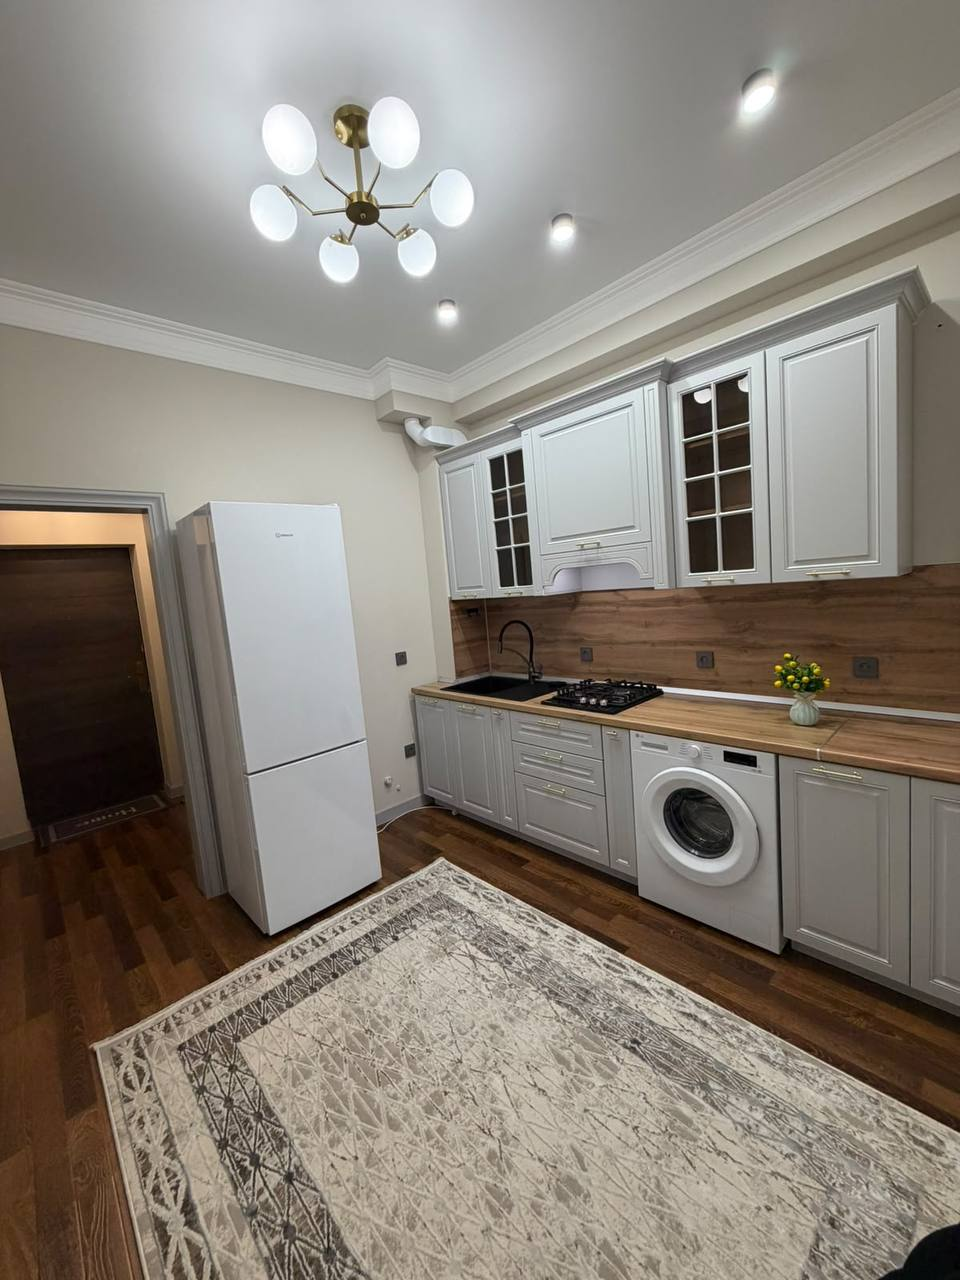
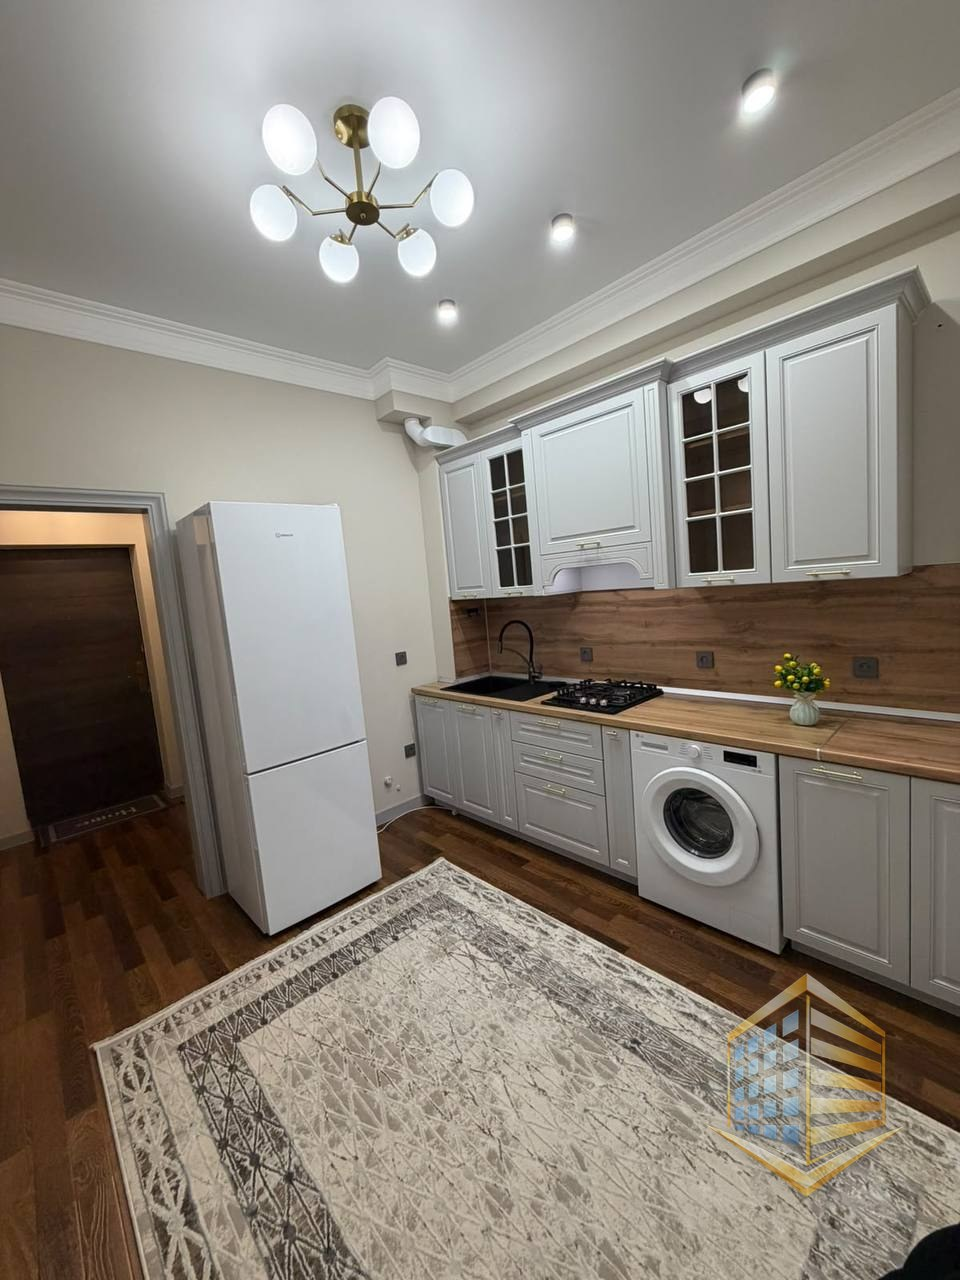
Clean listing 13 description, rebake watermark with crop-safe margin, remove unused details modal
Claude-Session: https://claude.ai/code/session_019tdYqEuQ2KqC7JcWJotPjW

Changed region(s): [[0.75, 0.75, 0.9375, 0.9375]]

diff --git a/index.html b/index.html
@@ -896,14 +896,6 @@ footer{background:#06172b}
   <span class="photo-counter" id="photo-counter"></span>
 </div>
 
-<div class="modal" id="details-modal" role="dialog" aria-modal="true" aria-labelledby="details-title">
-  <div class="dialog details-dialog">
-    <button class="close" type="button" data-close-details aria-label="Закрыть">&times;</button>
-    <h3 id="details-title">Информация об объекте</h3>
-    <div id="details-content"></div>
-    <button class="btn acc" type="button" id="details-request" style="width:100%;margin-top:14px">Оставить заявку</button>
-  </div>
-</div>
 
 <script>
 // Один номер для звонков, WhatsApp и Telegram
@@ -1004,22 +996,7 @@ $("cards").addEventListener("click",e=>{
   }
   const photo=e.target.closest("[data-photo]");
   if(photo){const card=photo.closest(".card");const id=card.querySelector("[data-gallery-next]")?.dataset.galleryNext||card.querySelector("[data-gallery-prev]")?.dataset.galleryPrev;const item=L.find(x=>String(x.id)===String(id))||L.find(x=>(Array.isArray(x.images)&&x.images.includes(photo.dataset.photo))||x.image===photo.dataset.photo);const photos=item?(Array.isArray(item.images)&&item.images.length?item.images:(item.image?[item.image]:[])):[photo.dataset.photo];openPhoto(photos,Number(photo.dataset.photoIndex||0),photo.dataset.photoAlt||"Фото объекта");return;}
-  const b=e.target.closest("[data-details]");
-  if(b)showDetails(b.dataset.details);
 });
-let activeDetails=null;
-function showDetails(id){
-  const item=L.find(x=>String(x.id)===String(id));if(!item)return;
-  activeDetails=item;
-  const city=cityName(item)||"Город не указан";
-  const per=item.deal==="arenda"?"в месяц":item.deal==="posutochno"?"в сутки":"";
-  const rows=[["Город",city],["Адрес / район",item.location||"Не указан"],["Тип сделки",DEALLBL[item.deal]||"Не указан"],["Площадь", (item.area??"—")+(item.category==="uchastki"?" сот.":" м²")],["Комнаты",item.rooms||"—"],["Этаж",item.floor?(item.floor+(item.floors?" из "+item.floors:"")):(item.extra||"—")]];
-  const labels={kitchenArea:"Площадь кухни",livingArea:"Жилая площадь",ceilingHeight:"Высота потолков",heating:"Отопление",bathroom:"Санузел",windows:"Окна",furniture:"Мебель",appliances:"Техника",condition:"Состояние",documents:"Документы",payment:"Ипотека / рассрочка",bargaining:"Торг",parking:"Парковка",utilities:"Коммуникации"};
-  Object.entries(item.details||{}).forEach(([key,value])=>{if(value)rows.push([labels[key]||key,value])});
-  $("details-title").textContent=item.title;
-  $("details-content").innerHTML='<p class="price">'+fmt(item.price)+' ₽ '+(per?'<small>'+per+'</small>':'')+'</p><dl class="detail-list">'+rows.map(([k,v])=>'<div><dt>'+esc(k)+'</dt><dd>'+esc(v)+'</dd></div>').join("")+'</dl>'+(item.description?'<p class="detail-desc">'+esc(item.description)+'</p>':'');
-  $("details-modal").classList.add("open");
-}
 let fullPhotos=[],fullPhotoIndex=0,fullPhotoAlt="Фото объекта",touchStartX=0;
 function showFullPhoto(){
   if(!fullPhotos.length)return;
@@ -1039,10 +1016,7 @@ document.querySelector("[data-full-next]").addEventListener("click",()=>moveFull
 $("photo-modal").addEventListener("click",e=>{if(e.target.id==="photo-modal")closePhoto();});
 $("photo-modal").addEventListener("touchstart",e=>{touchStartX=e.changedTouches[0].screenX;},{passive:true});
 $("photo-modal").addEventListener("touchend",e=>{const dx=e.changedTouches[0].screenX-touchStartX;if(Math.abs(dx)>45)moveFullPhoto(dx<0?1:-1);},{passive:true});
-document.addEventListener("keydown",e=>{if($("photo-modal").classList.contains("open")){if(e.key==="ArrowRight")moveFullPhoto(1);if(e.key==="ArrowLeft")moveFullPhoto(-1);}if(e.key==="Escape"){closePhoto();$("details-modal").classList.remove("open");}});
-document.querySelector("[data-close-details]").addEventListener("click",()=>$("details-modal").classList.remove("open"));
-$("details-modal").addEventListener("click",e=>{if(e.target.id==="details-modal")$("details-modal").classList.remove("open")});
-$("details-request").addEventListener("click",()=>{if(activeDetails){$("details-modal").classList.remove("open");openModal("Заявка: "+activeDetails.title+" — "+cityName(activeDetails))}});
+document.addEventListener("keydown",e=>{if($("photo-modal").classList.contains("open")){if(e.key==="ArrowRight")moveFullPhoto(1);if(e.key==="ArrowLeft")moveFullPhoto(-1);}if(e.key==="Escape")closePhoto();});
 ["rooms","rooms-advanced","land-type","land-type-advanced","price-min","price-max","area-min","area-max","floor","floors","sort"].forEach(id=>$(id).addEventListener("input",render));
 $("search").addEventListener("submit",e=>{e.preventDefault();render();$("catalog").scrollIntoView({behavior:"smooth"})});
 const mobileMenu=$("mobile-menu"),menuToggle=$("mobile-menu-toggle");

diff --git a/tools/watermark.py b/tools/watermark.py
@@ -15,7 +15,8 @@ from PIL import Image, ImageFilter, ImageOps
 LOGO = Path(__file__).resolve().parent.parent / "assets" / "city-logo-mark.png"
 WIDTH_SHARE = 0.22   # ширина знака относительно ширины фото
 OPACITY = 0.50       # прозрачность знака (1 = непрозрачный)
-MARGIN_SHARE = 0.035  # отступ от правого и нижнего края относительно ширины фото
+MARGIN_SHARE = 0.05   # отступ от правого края относительно ширины фото
+BOTTOM_SHARE = 0.085  # отступ снизу: запас, чтобы знак не обрезался при показе фото в формате 4:5
 
 
 def add_watermark(src: Path, dst: Path) -> None:
@@ -36,7 +37,7 @@ def add_watermark(src: Path, dst: Path) -> None:
     logo.putalpha(alpha.point(lambda v: int(v * OPACITY)))
 
     margin = int(w * MARGIN_SHARE)
-    pos = (w - lw - margin, h - lh - margin)
+    pos = (w - lw - margin, h - lh - int(w * BOTTOM_SHARE))
 
     canvas = photo.convert("RGBA")
     canvas.alpha_composite(shadow, (pos[0] + 2, pos[1] + 3))
